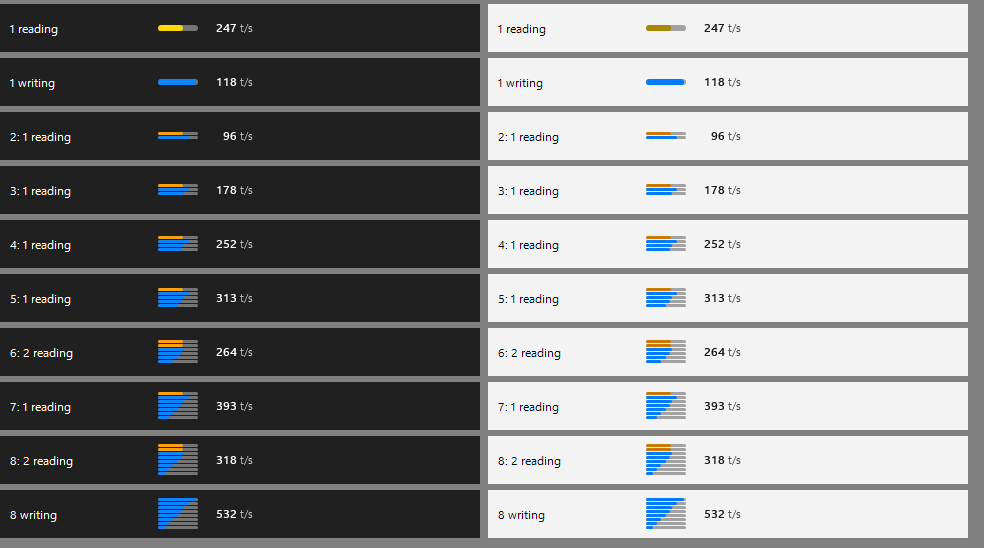
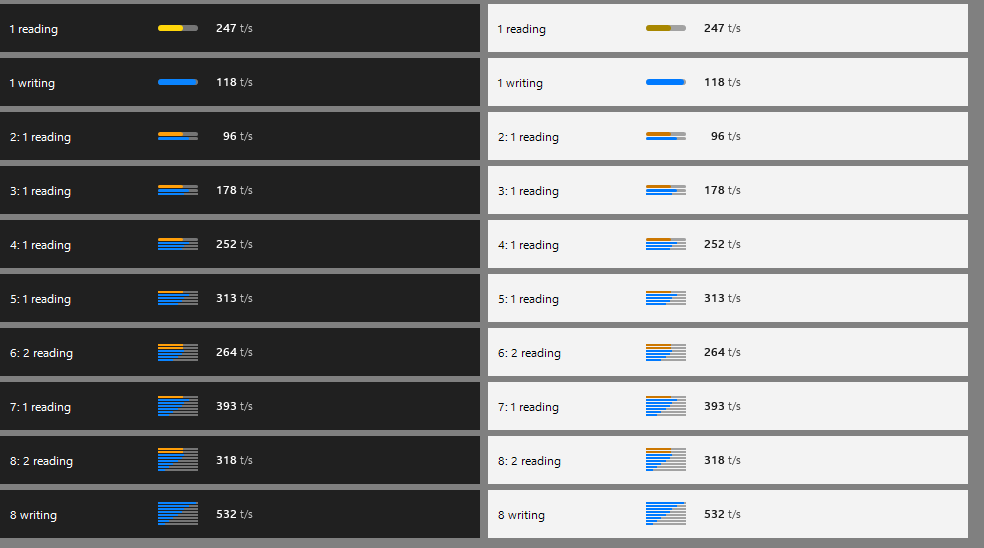
Readout: bar stack height follows H1 * sqrt(n) with thinner bars; history legend shows the 60 s average of the raw samples; Swift mirrored (unbuilt) [skip ci] [skip cd]

diff --git a/Sources/StratoscopeCore/SpeedHistory.swift b/Sources/StratoscopeCore/SpeedHistory.swift
@@ -42,13 +42,27 @@ public enum RequestBars {
         bars.compactMap { $0.reading ? nil : $0.tokensPerSecond }.filter { $0.isFinite }.max()
     }
 
-    /// The rows of `count` bars in pixels: bar height, gap and total height. One bar keeps `singleHeight`; several share `stack` pixels, packed
-    /// tightly (a one pixel gap while there are at most four), no bar thinner than one pixel.
-    public static func rows(count: Int, singleHeight: Double, stack: Double) -> (bar: Double, gap: Double, total: Double) {
-        if count <= 1 { return (singleHeight, 0, singleHeight) }
-        let gap = count <= 4 ? 1.0 : 0.0
-        let bar = Swift.max(1, ((stack - gap * Double(count - 1)) / Double(count)).rounded(.down))
-        return (bar, gap, bar * Double(count) + gap * Double(count - 1))
+    /// The gap between two bars as a share of the bar height they would have without gaps (never under one device pixel).
+    public static let gapShare = 0.25
+
+    /// The bars of a stack, in device pixels: every bar is `bar` high, the first `extra` of them one pixel more; `gap` between two.
+    public struct Stack: Equatable {
+        public var bar: Int, gap: Int, total: Int, extra: Int
+        public func height(of i: Int) -> Int { bar + (i < extra ? 1 : 0) }
+        public func top(of i: Int) -> Int { i * (bar + gap) + Swift.min(i, extra) }
+    }
+
+    /// The rows of `count` bars in device pixels (twin of BarRows in ReadoutPainter.cs). One bar keeps `singlePixels`. With several, the stack
+    /// height grows with the square root of the count, `H(n) = H1 * sqrt(n)`, capped at `capPixels`, so it grows less than the count while every
+    /// bar gets thinner. The gap is a quarter of the bar height (at least one pixel); the bar is what is left, never under two pixels (then the
+    /// stack grows to fit). The stack is exactly the rounded H(n) high: leftover pixels make the first bars one pixel taller.
+    public static func rows(count: Int, singlePixels: Int, capPixels: Int) -> Stack {
+        if count <= 1 { return Stack(bar: singlePixels, gap: 0, total: singlePixels, extra: 0) }
+        let height = Swift.min(Double(singlePixels) * Double(count).squareRoot(), Double(capPixels))
+        let gap = Swift.max(1, Int((height / Double(count) * gapShare + 0.5).rounded(.down)))
+        let total = Swift.min(capPixels, Swift.max(2 * count + gap * (count - 1), Int((height + 0.5).rounded(.down))))
+        let room = total - gap * (count - 1)
+        return Stack(bar: room / count, gap: gap, total: total, extra: room % count)
     }
 }
 
@@ -126,6 +140,19 @@ public struct SpeedHistory {
             out.append((Swift.max(0, age), filter.step(values[curve.rawValue][i])))
         }
         return out
+    }
+
+    /// The average of the raw samples of a curve over the last `windowSeconds` (smoothing not applied), over the samples with a known value;
+    /// NaN when there is none. The legend of the history graph shows it.
+    public func average(_ curve: HistoryCurve, now: Double) -> Double {
+        var sum = 0.0, n = 0
+        for k in 0..<count {
+            let i = (start + k) % SpeedHistory.capacity
+            let v = values[curve.rawValue][i]
+            if now - times[i] > SpeedHistory.windowSeconds || v.isNaN { continue }
+            sum += v; n += 1
+        }
+        return n == 0 ? .nan : sum / Double(n)
     }
 
     /// The newest raw value of a curve, or NaN when there is none.

diff --git a/Tests/StratoscopeCoreTests/SpeedHistoryTests.swift b/Tests/StratoscopeCoreTests/SpeedHistoryTests.swift
@@ -136,13 +136,34 @@ import Testing
         #expect(RequestBars.from(EngineSnapshot(engine: "Strata", model: "m", status: .decode, live: LiveRequest(running: 12), context: ContextUsage(max: 0), slots: many)).count == 8)
     }
 
-    @Test func testTheStackFitsAndOneBarKeepsItsHeight() {
-        #expect(RequestBars.rows(count: 1, singleHeight: 9, stack: 9).total == 9)
-        for n in 2...8 {
-            let r = RequestBars.rows(count: n, singleHeight: 9, stack: 9)
-            #expect(r.bar >= 1)
-            #expect(r.total == r.bar * Double(n) + r.gap * Double(n - 1))
+    @Test func testTheStackGrowsWithTheCountWhileBarsGetThinner() {
+        for single in [12, 18, 24] {
+            let one = RequestBars.rows(count: 1, singlePixels: single, capPixels: single * 3)
+            #expect(one.total == single && one.bar == single)
+            var previous = one
+            for n in 2...8 {
+                let r = RequestBars.rows(count: n, singlePixels: single, capPixels: single * 3)
+                #expect(r.bar >= 2 && r.gap >= 1)
+                #expect(r.total == n * r.bar + r.extra + (n - 1) * r.gap)
+                #expect(r.total <= single * 3)
+                #expect(r.total >= previous.total)
+                #expect(r.height(of: 0) <= previous.height(of: 0))
+                #expect(r.height(of: 0) < single)
+                #expect(r.total < single * n)
+                previous = r
+            }
         }
-        #expect(RequestBars.rows(count: 2, singleHeight: 9, stack: 9).total <= 9)
+    }
+
+    @Test func testTheWindowAverageIsOfTheRawSamplesAndSkipsUnknownOnes() {
+        var h = SpeedHistory()
+        h.addSample(now: 0, prefill: 0, decode: 0)
+        h.addSample(now: 100, prefill: 10, decode: 100)
+        h.addSample(now: 110, prefill: 20, decode: 200)
+        h.addSample(now: 120, prefill: .nan, decode: 300)
+        #expect(h.average(.prefill, now: 120) == 15)
+        #expect(h.average(.decode, now: 120) == 200)
+        #expect(h.average(.total, now: 120) == 165)
+        #expect(SpeedHistory().average(.total, now: 0).isNaN)
     }
 }

diff --git a/Sources/Stratoscope/Drawing.swift b/Sources/Stratoscope/Drawing.swift
@@ -98,12 +98,14 @@ func progressImage(_ frac: Double, _ hit: CacheHit) -> NSImage {
 /// One request keeps the look of `progressImage` (the outline, the height of 9 pt). Not built or run on the Windows PC this was written on.
 func requestBarsImage(_ bars: [RequestBar], hit: CacheHit?, scaleMax: Double) -> NSImage {
     let w: CGFloat = 46, h: CGFloat = 9
-    let rows = RequestBars.rows(count: bars.count, singleHeight: Double(h), stack: Double(h))
-    let barH = CGFloat(rows.bar), gap = CGFloat(rows.gap), total = CGFloat(rows.total)
+    let scale = NSScreen.main?.backingScaleFactor ?? 2           // device pixels per point
+    let stack = RequestBars.rows(count: bars.count, singlePixels: Int(h * scale), capPixels: Int(16 * scale))
+    let total = CGFloat(stack.total) / scale
     return NSImage(size: NSSize(width: w + 2, height: 18), flipped: false) { _ in
         let top = (18 + total) / 2          // flipped: false, so the first bar is the topmost
         for (i, b) in bars.enumerated() {
-            let box = NSRect(x: 1, y: top - CGFloat(i + 1) * barH - CGFloat(i) * gap, width: w, height: barH)
+            let barH = CGFloat(stack.height(of: i)) / scale
+            let box = NSRect(x: 1, y: top - CGFloat(stack.top(of: i)) / scale - barH, width: w, height: barH)
             let radius = barH >= 3 ? barH / 2 : 0
             NSColor.labelColor.withAlphaComponent(0.25).setFill()
             NSBezierPath(roundedRect: box, xRadius: radius, yRadius: radius).fill()

diff --git a/Sources/Stratoscope/Panels.swift b/Sources/Stratoscope/Panels.swift
@@ -132,14 +132,14 @@ final class Panels {
         guard let h = history else { return }
         let inner = menuWidth - 2 * pad
         text("History", x: pad, y: 8, size: 12, bold: true)
-        text("Last 60 s", x: 0, y: 9, size: 10, color: .secondaryLabelColor, right: menuWidth - pad)
+        text("Average of the last 60 s, t/s", x: 0, y: 9, size: 10, color: .secondaryLabelColor, right: menuWidth - pad)
         let curves: [(HistoryCurve, String, NSColor)] = [(.prefill, "Prefill", .systemOrange), (.decode, "Decode", .systemBlue), (.total, "Total", .labelColor)]
         let column = inner / 3
         for (i, (curve, name, color)) in curves.enumerated() {
             let x = pad + CGFloat(i) * column
             color.setFill(); NSRect(x: x, y: 33, width: 8, height: 3).fill()
             text(name, x: x + 13, y: 28, size: 10, color: .secondaryLabelColor)
-            let v = h.latest(curve)
+            let v = h.average(curve, now: Date().timeIntervalSince1970)     // the average of the raw samples of the window, not of the smoothed curve
             text(v.isNaN ? "–" : Fmt.number(v), x: x + 13, y: 41, size: 12, bold: true, color: curve == .total ? .labelColor : color)
         }
         let gutter: CGFloat = 30, left = pad + gutter, right = menuWidth - pad, top: CGFloat = 66, plotH: CGFloat = 64

diff --git a/Sources/Windows/App/ReadoutPainter.cs b/Sources/Windows/App/ReadoutPainter.cs
@@ -149,22 +149,35 @@ internal static class ReadoutPainter
 
     /// <summary>The most height the stack of request bars may take, of the 48 epx of the taskbar: 8 epx stay free above and below.</summary>
     internal const float MaxStackHeight = 32f;
-    /// <summary>The height a bar of a stack starts at, epx. It shrinks when the stack would not fit.</summary>
-    internal const float StackBarHeight = 3f;
+    /// <summary>The gap between two bars as a share of the bar height they would have without gaps (never under one device pixel).</summary>
+    internal const double StackGapShare = 0.25;
 
     /// <summary>
     /// The rows of <paramref name="count"/> bars in device pixels: the height of each bar, the gap between two and the height of the stack.
-    /// One bar is the bar of old (<see cref="GlyphHeight"/>). With several the stack grows taller, centred on the place of the single bar
-    /// (the glyph box is centred on the centre line): each bar is <see cref="StackBarHeight"/> high with a gap of one epx, and shrinks only
-    /// as far as the stack needs to stay within <see cref="MaxStackHeight"/>; never below 2 device pixels with a gap of at least 1.
+    /// One bar is the bar of old (<see cref="GlyphHeight"/>). With several, the stack height grows with the square root of the count,
+    /// <c>H(n) = H1 * sqrt(n)</c> (H1 is the height of the single bar), so it grows less than the count while every bar gets thinner; it is capped
+    /// at <see cref="MaxStackHeight"/> and stays centred on the place of the single bar. The gap is a quarter of the bar height
+    /// (<see cref="StackGapShare"/>, at least one device pixel); the bar is what is left, <c>(H - gaps) / n</c>, never under two device pixels
+    /// (when that makes the stack taller than H(n), it grows to fit the bars). The stack is exactly the rounded H(n) high: the pixels left over
+    /// after dividing by the count make the first bars one pixel taller, so the total height never jumps with rounding.
     /// </summary>
-    internal static (int Bar, int Gap, int Total) BarRows(int count, UiMetrics m)
+    internal static BarStack BarRows(int count, UiMetrics m)
     {
-        if (count <= 1) { var h = GlyphHeightPx(m, true); return (h, 0, h); }
-        var gap = Math.Max(1, m.Px(1));
-        var bar = Math.Max(2, m.Px(StackBarHeight));
-        while (bar > 2 && count * bar + (count - 1) * gap > m.Px(MaxStackHeight)) bar--;
-        return (bar, gap, bar * count + gap * (count - 1));
+        var single = GlyphHeightPx(m, true);
+        if (count <= 1) return new BarStack(single, 0, single, 0);
+        var cap = m.Px(MaxStackHeight);
+        var height = Math.Min(single * Math.Sqrt(count), cap);
+        var gap = Math.Max(1, (int)Math.Floor(height / count * StackGapShare + 0.5));
+        var total = Math.Min(cap, Math.Max(2 * count + gap * (count - 1), (int)Math.Floor(height + 0.5)));
+        var room = total - gap * (count - 1);
+        return new BarStack(room / count, gap, total, room % count);
+    }
+
+    /// <summary>The bars of a stack: every bar is <paramref name="Bar"/> high, the first <paramref name="Extra"/> of them one pixel more; <paramref name="Gap"/> between two.</summary>
+    internal readonly record struct BarStack(int Bar, int Gap, int Total, int Extra)
+    {
+        public int HeightOf(int i) => Bar + (i < Extra ? 1 : 0);
+        public int TopOf(int i) => i * (Bar + Gap) + Math.Min(i, Extra);
     }
 
     /// <summary>The height of the bar, or the diameter of the dot, in device pixels.</summary>
@@ -423,7 +436,7 @@ internal static class ReadoutPainter
     /// </summary>
     private static void DrawBars(Graphics g, ReadoutItem item, RectangleF box, UiMetrics m, Palette palette)
     {
-        var (barHeight, gap, _) = BarRows(item.Bars.Count, m);
+        var stack = BarRows(item.Bars.Count, m);
         var track = Palette.Alpha(palette.HighContrast ? palette.Gray : Ink(palette), 0.25);
         void Fill(RectangleF r, Color color)
         {
@@ -435,7 +448,8 @@ internal static class ReadoutPainter
         for (int i = 0; i < item.Bars.Count; i++)
         {
             var bar = item.Bars[i];
-            var row = new RectangleF(box.X, box.Y + i * (barHeight + gap), box.Width, barHeight);
+            var barHeight = stack.HeightOf(i);
+            var row = new RectangleF(box.X, box.Y + stack.TopOf(i), box.Width, barHeight);
             Fill(row, track);
             double? fraction;
             Color color;

diff --git a/Tests/StratoscopeWindowsTests/SpeedHistoryTests.cs b/Tests/StratoscopeWindowsTests/SpeedHistoryTests.cs
@@ -269,12 +269,56 @@ public class RequestBarTests
         Assert.Equal(ReadoutPainter.GlyphHeightPx(m, true), ReadoutPainter.BarRows(1, m).Total);
         for (int n = 2; n <= 8; n++)
         {
-            var (bar, gap, total) = ReadoutPainter.BarRows(n, m);
+            var stack = ReadoutPainter.BarRows(n, m); var (bar, gap, total) = (stack.Bar, stack.Gap, stack.Total);
             Assert.True(bar >= 2);
-            Assert.Equal(n * bar + (n - 1) * gap, total);
+            Assert.Equal(n * bar + stack.Extra + (n - 1) * gap, total);
             Assert.True(total <= m.Px(ReadoutPainter.MaxStackHeight), n + " bars at " + dpi + " DPI");
             Assert.True(bar >= 2 && gap >= 1, n + " bars at " + dpi + " DPI");
         }
+    }
+
+    [Theory]
+    [InlineData(96)] [InlineData(144)] [InlineData(192)]
+    public void TheStackGrowsWithTheCountButBarsGetThinner(int dpi)
+    {
+        var m = UiMetrics.At(dpi, 1.0, true, true);
+        var single = ReadoutPainter.BarRows(1, m);
+        var previous = single;
+        for (int n = 2; n <= 8; n++)
+        {
+            var rows = ReadoutPainter.BarRows(n, m);
+            Assert.True(rows.Total >= previous.Total, "taller or equal at " + n);
+            Assert.True(rows.HeightOf(0) <= previous.HeightOf(0), "thinner or equal at " + n);
+            Assert.True(rows.HeightOf(0) < single.Bar);
+            Assert.True(rows.Total < single.Total * n, "grows less than the count");
+            previous = rows;
+        }
+    }
+}
+
+public class WindowAverageTests
+{
+    [Fact]
+    public void TheAverageIsOfTheRawSamplesOfTheWindowAndSkipsUnknownOnes()
+    {
+        var h = new SpeedHistory();
+        h.AddSample(0, 0, 0);                      // older than the window at the end: dropped
+        h.AddSample(100, 10, 100);
+        h.AddSample(110, 20, 200);
+        h.AddSample(120, double.NaN, 300);
+        Assert.Equal(15, h.Average(HistoryCurve.Prefill, 120));        // the two known samples
+        Assert.Equal(200, h.Average(HistoryCurve.Decode, 120));
+        Assert.Equal(165, h.Average(HistoryCurve.Total, 120));         // (110 + 220) / 2; the unknown total is skipped
+        Assert.True(double.IsNaN(new SpeedHistory().Average(HistoryCurve.Total, 0)));
+    }
+
+    [Fact]
+    public void TheAverageIgnoresTheSmoothing()
+    {
+        var h = new SpeedHistory();
+        h.AddSample(0, 0, 0);
+        h.AddSample(2, 0, 100);
+        Assert.Equal(50, h.Average(HistoryCurve.Decode, 2));
     }
 }
 

diff --git a/Sources/Windows/Tools/ToolsProgram.cs b/Sources/Windows/Tools/ToolsProgram.cs
@@ -99,6 +99,13 @@ internal static class ToolsProgram
                 "  {0,3} %: width {1}, left margin {2}, right margin {3}, g {4}, graphics end {5}, anchor {6}, text and number slot start {7}, unit x {8}, text slot end {9}",
                 dpi * 100 / 96, geo.Width, geo.GlyphX, geo.Width - geo.TextRight, mm.Px(ReadoutPainter.AnchorGap), geo.GlyphRight, geo.Anchor, geo.TextX, geo.UnitX, geo.TextRight));
         }
+        Console.WriteLine("Request bars, n = 1 to 8: bar height / gap / stack height in device pixels:");
+        foreach (var dpi in new[] { 96, 144, 192 })
+            Console.WriteLine("  " + dpi * 100 / 96 + " %: " + string.Join(" | ", Enumerable.Range(1, 8).Select(n =>
+            {
+                var rows = ReadoutPainter.BarRows(n, UiMetrics.At(dpi));
+                return n + ": " + rows.Bar + (rows.Extra > 0 ? "+1 (" + rows.Extra + "x)" : "") + "/" + rows.Gap + "/" + rows.Total;
+            })));
         Console.WriteLine("Last pixel column of the glyph from the item's left edge, and the end of the glyph slot (anchor minus gap):");
         foreach (var dpi in new[] { 96, 120, 144, 192 })
             Console.WriteLine("  " + dpi * 100 / 96 + " %: " + string.Join(", ", new[] { ServerState.Reading, ServerState.Writing, ServerState.Offline, ServerState.Loading, ServerState.Error }.Select(s => s + " " + Measurements.GlyphRightEdge(dpi, s).LastColumn)) + " | slot end " + Measurements.GlyphRightEdge(dpi, ServerState.Ready).SlotEnd);

diff --git a/Sources/Windows/App/PanelPainter.cs b/Sources/Windows/App/PanelPainter.cs
@@ -602,7 +602,7 @@ internal sealed class PanelPainter
     {
         var inner = Width - 2 * Pad;
         T("History", Pad, y + 8, Body, true);
-        T("Last 60 s", 0, y + 9, Caption, false, pal.Dim, Width - Pad);
+        T("Average of the last 60 s, t/s", 0, y + 9, Caption, false, pal.Dim, Width - Pad);
         var column = inner / 3;
         var curves = new[] { (HistoryCurve.Prefill, "Prefill", pal.Orange), (HistoryCurve.Decode, "Decode", pal.Blue), (HistoryCurve.Total, "Total", pal.Label) };
         for (int i = 0; i < curves.Length; i++)
@@ -611,8 +611,9 @@ internal sealed class PanelPainter
             var x = Pad + i * column;
             using (var brush = new SolidBrush(color)) g.FillRectangle(brush, x, y + 33, 8, 3);
             T(name, x + 13, y + 28, Caption, false, pal.Dim);
-            var latest = history.Latest(curve);
-            T(double.IsNaN(latest) ? Fmt.Missing : Fmt.Number(latest), x + 13, y + 41, Body, true, curve == HistoryCurve.Total ? null : color);
+            // The average of the raw samples of the window, not of the smoothed curve. Only the average fits the column without more height.
+            var average = history.Average(curve, SpeedHistory.Seconds(model.Now));
+            T(double.IsNaN(average) ? Fmt.Missing : Fmt.Number(average), x + 13, y + 41, Body, true, curve == HistoryCurve.Total ? null : color);
         }
 
         var left = Pad + HistoryGutter; var right = Width - Pad;

diff --git a/Sources/Windows/Core/SpeedHistory.cs b/Sources/Windows/Core/SpeedHistory.cs
@@ -138,6 +138,23 @@ public sealed class SpeedHistory
         return n;
     }
 
+    /// <summary>
+    /// The average of the raw samples of a curve over the last <see cref="WindowSeconds"/> (the smoothing is not applied), counting the samples
+    /// with a known value; NaN when there is none. The legend of the history graph shows it.
+    /// </summary>
+    public double Average(HistoryCurve curve, double nowSeconds)
+    {
+        var source = values[(int)curve];
+        double sum = 0; int n = 0;
+        for (int k = 0; k < count; k++)
+        {
+            var i = (start + k) % Capacity;
+            if (nowSeconds - time[i] > WindowSeconds || double.IsNaN(source[i])) continue;
+            sum += source[i]; n++;
+        }
+        return n == 0 ? double.NaN : sum / n;
+    }
+
     /// <summary>The newest raw value of a curve, or NaN when there is none.</summary>
     public double Latest(HistoryCurve curve) => count == 0 ? double.NaN : values[(int)curve][(start + count - 1) % Capacity];
 }

diff --git a/docs/ARCHITECTURE.md b/docs/ARCHITECTURE.md
@@ -95,8 +95,8 @@ What every front end does the same way. The payloads in `Tests/Fixtures` with th
 - **States:** connecting (nothing shown), offline, no model (router answers, `running` empty; nothing is woken), loading (router state is not `ready`), then ready, reading, thinking, writing. An HTTP 429 from the router keeps the last data on screen, marked.
 - **Settings:** environment variable, then the settings file, then the default. A router without `url` is asked alone, never `127.0.0.1:8095`.
 - **Speed when several requests run together:** the headline decode speed (and the headline prefill speed while reading) is the engine's own total over all requests, for every engine. Strata: `live.tok_s` (the engine's total of the generating requests); when the engine has no total yet, the sum of the derived per-slot speeds (Windows only). Basalt: `live.tok_s`, which the engine sums over its slots. llama.cpp: `/metrics` `llamacpp:predicted_tokens_seconds` (prefill: `prompt_tokens_seconds`), the server-wide rate over all slots; it needs the server's `--metrics` flag. Custom 27B: `/ui/state` `tick.sample.decode_tps` and `prefill_tps`, the engine's counter deltas over all requests between samples; the sum of the per-request rates only when the sample has no rate. A request's own speed is shown on its own row. The per-request rows are never added up for the headline unless the engine has no total.
-- **Request bars and speed scale:** the readout shows one bar per running request (at most eight; source: the engine's batch slots, else the live request), each as wide as the old progress bar; with several the stack grows taller, centred where the single bar is: bars 3 epx high with a 1 epx gap, shrinking only as far as needed (never under 2 device pixels with a gap of 1) to stay within 32 epx. Reading: the prompt progress, in orange (the cache colour while it is the only request). Writing: the request's own slot speed against the adaptive scale `SpeedScale` (0 to a maximum), in blue; a speed the engine does not report leaves the track empty. The maximum rises when a value exceeds it, to that value plus 5 %, rounded up to a clean step (126 becomes 130). It steps back to the next clean value above the peak only after every value stayed below half of it for 25 s (`SpeedScale.FallHoldSeconds`), never below its start of 100 t/s. `SpeedScale.cs` and `SpeedScale.swift`, tested on both sides.
-- **History graph (panel only):** the last 60 s of speed (`SpeedHistory`, one sample per poll). Orange is the prefill speed (`Live.PrefillTokensPerSecond`, prompt tokens per second), blue the decode speed (`Live.DecodeTokensPerSecond`, generated tokens per second), black (the label colour) the total throughput, the standard throughput of vLLM and OpenTelemetry GenAI: tokens processed per second, prompt plus generated (`vllm:prompt_tokens_total` plus `vllm:generation_tokens_total` as a rate; `gen_ai.client.token.usage` input plus output). All three come from the engine's own speeds, and the total is unknown when either part is. Idle is 0, one reading request does not write, and parallel requests with an unreported speed leave a gap. Each curve is smoothed per sample with the one-pole filter `y = d*y + (1-d)*x`; setting `history_smoothing`: `off` (d 0), `normal` (0.5, default), `high` (0.9), `highest` (0.95); environment `STRATOSCOPE_HISTORY_SMOOTHING`. The total is a third curve in the same graph: it shares the axis, reads against its parts and costs no height. The legend gives the current value of each curve; the axis labels are 0, half and the adaptive maximum.
+- **Request bars and speed scale:** the readout shows one bar per running request (at most eight; source: the engine's batch slots, else the live request), each as wide as the old progress bar; with several the stack grows taller, centred where the single bar is, as the square root of the count (`H = 6 epx * sqrt(n)`, capped at 32 epx) while each bar gets thinner: the gap is a quarter of the bar (at least 1 device pixel), the bar is what is left (at least 2), leftover pixels make the first bars 1 px taller. `BarRows` in `ReadoutPainter.cs`, `RequestBars.rows` in `SpeedHistory.swift`. Reading: the prompt progress, in orange (the cache colour while it is the only request). Writing: the request's own slot speed against the adaptive scale `SpeedScale` (0 to a maximum), in blue; a speed the engine does not report leaves the track empty. The maximum rises when a value exceeds it, to that value plus 5 %, rounded up to a clean step (126 becomes 130). It steps back to the next clean value above the peak only after every value stayed below half of it for 25 s (`SpeedScale.FallHoldSeconds`), never below its start of 100 t/s. `SpeedScale.cs` and `SpeedScale.swift`, tested on both sides.
+- **History graph (panel only):** the last 60 s of speed (`SpeedHistory`, one sample per poll). Orange is the prefill speed (`Live.PrefillTokensPerSecond`, prompt tokens per second), blue the decode speed (`Live.DecodeTokensPerSecond`, generated tokens per second), black (the label colour) the total throughput, the standard throughput of vLLM and OpenTelemetry GenAI: tokens processed per second, prompt plus generated (`vllm:prompt_tokens_total` plus `vllm:generation_tokens_total` as a rate; `gen_ai.client.token.usage` input plus output). All three come from the engine's own speeds, and the total is unknown when either part is. Idle is 0, one reading request does not write, and parallel requests with an unreported speed leave a gap. Each curve is smoothed per sample with the one-pole filter `y = d*y + (1-d)*x`; setting `history_smoothing`: `off` (d 0), `normal` (0.5, default), `high` (0.9), `highest` (0.95); environment `STRATOSCOPE_HISTORY_SMOOTHING`. The total is a third curve in the same graph: it shares the axis, reads against its parts and costs no height. The legend gives the average of each curve over the 60 s window, of the raw samples (not the smoothed curve); the axis labels are 0, half and the adaptive maximum.
 
 ## Not built yet
 

diff --git a/docs/WINDOWS.md b/docs/WINDOWS.md
@@ -25,13 +25,13 @@ No administrator rights. It installs into `%LOCALAPPDATA%\Stratoscope`, starts w
 ## What you see
 
 - **Readout**, one item per server: a glyph and the speed (`[bar] 247 t/s`, `[dot] 26 t/s`). While nothing runs, only the glyph.
-- **Glyph**: one bar per running request, up to eight, each as wide as the single bar; with several the stack grows taller, centred on the single bar (bars 3 epx high with a 1 epx gap, shrinking to at least 2 device pixels so the stack stays within 32 epx of the 48 epx taskbar): a request that reads shows its prompt progress (colored by how much came from the cache while it is the only request, orange with several), one that writes shows its own speed in blue against a scale that adapts to what runs (rises with a margin, steps back after 25 s below half). Green dot when ready; grey ring when offline or no model; dotted ring while loading; red mark on an error.
+- **Glyph**: one bar per running request, up to eight, each as wide as the single bar; with several the stack grows taller, centred on the single bar, as the square root of the count (H = 6 epx * sqrt(n), at most 32 epx of the 48 epx taskbar) while each bar gets thinner (gap a quarter of the bar, never under 1 device pixel; bar never under 2): a request that reads shows its prompt progress (colored by how much came from the cache while it is the only request, orange with several), one that writes shows its own speed in blue against a scale that adapts to what runs (rises with a margin, steps back after 25 s below half). Green dot when ready; grey ring when offline or no model; dotted ring while loading; red mark on an error.
 - **Custom engine**: reading and writing per request from its `/ui/state` while requests run; without it, one busy state ("running") and no speed.
 - **Speed**: plain digits, `10k` from 9,999.5 t/s. With parallel requests it is the total.
 <img src="img/windows-readout-parallel.png" alt="The readout with 1, 2, 4 and 8 parallel requests, dark and light" width="720">
 
 - **Position**: centred in the free gap of the taskbar. It moves only when the taskbar geometry changes, then once.
-- **Panel**: the Mac menu, with tabs for several servers. Below the live block a graph shows the last 60 seconds: orange prefill speed, blue decode speed, black total throughput (prompt plus generated tokens per second), with the current value of each and an axis from 0 to the adaptive maximum. Two or more parallel requests show a sum bar with one smaller bar per request.
+- **Panel**: the Mac menu, with tabs for several servers. Below the live block a graph shows the last 60 seconds: orange prefill speed, blue decode speed, black total throughput (prompt plus generated tokens per second), with the average of each over the 60 s (of the raw samples, not the smoothed curve) and an axis from 0 to the adaptive maximum. Two or more parallel requests show a sum bar with one smaller bar per request.
 - **Tooltips**: only data the element does not show. Nothing to add, no tooltip.
 - **Keys**: Esc closes, Left and Right switch tabs, Ctrl+Q quits.
 <img src="img/windows-readout-states.png" alt="Every state of the readout, dark and light" width="720">
